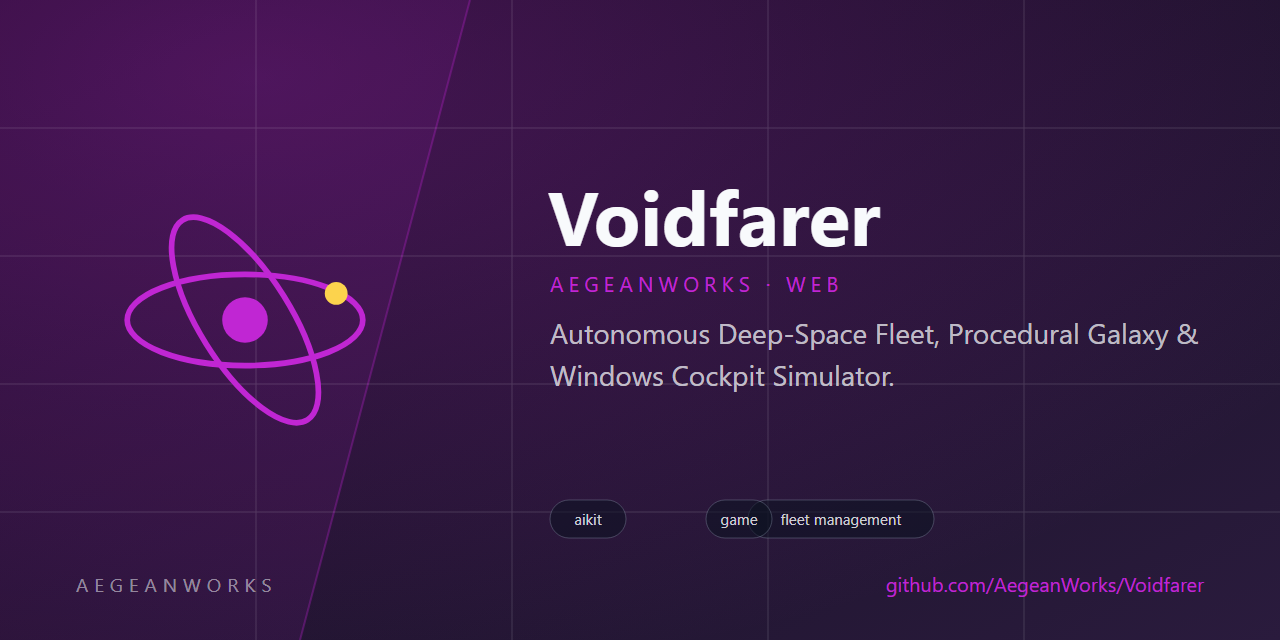
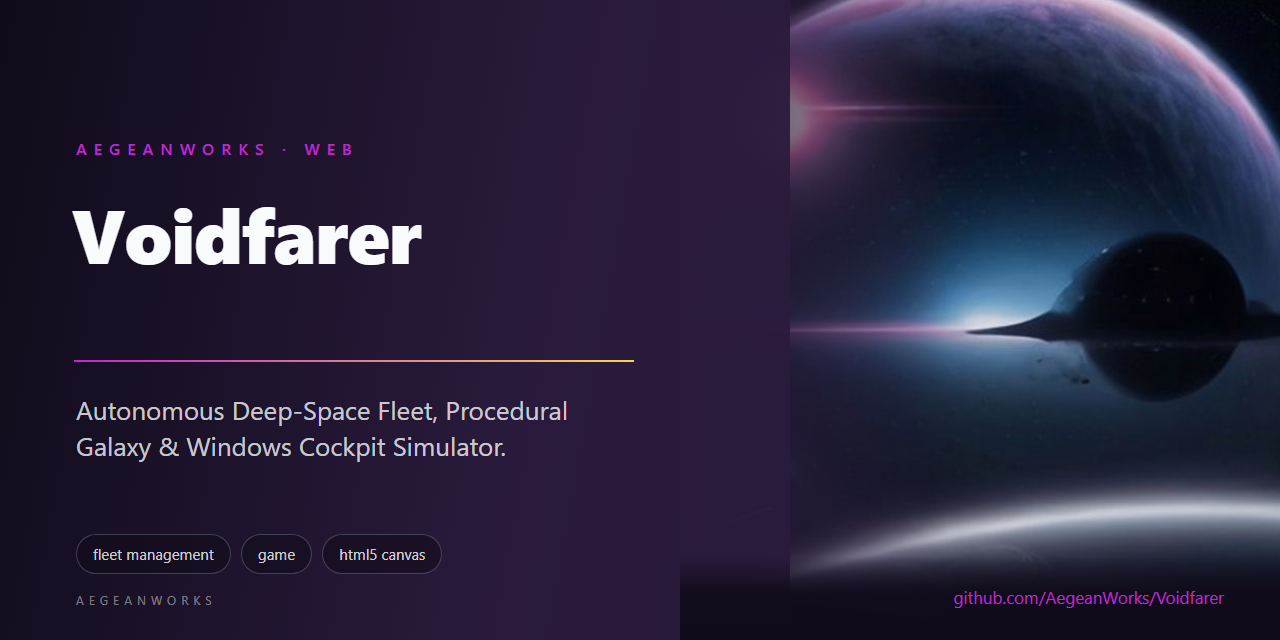
feat(brand): replace procedural marks with reviewed AI-art identities

diff --git a/README.md b/README.md
@@ -1,8 +1,8 @@
 # VoidFarer
 
 <!-- aegean:media:start -->
-<p align="center"><img src="assets/logo.svg" alt="Voidfarer logo" width="96" height="96"></p>
-<p align="center"><img src="assets/social-preview.svg" alt="Voidfarer social preview" width="100%"></p>
+<p align="center"><img src="assets/logo.png" alt="Voidfarer logo" width="96" height="96"></p>
+<p align="center"><img src="assets/social-preview.png" alt="Voidfarer social preview" width="100%"></p>
 <!-- aegean:media:end -->
 
 [![Built with AIKit](https://img.shields.io/badge/built%20with-AIKit-6f42c1)](https://github.com/AegeanWorks/AIKit)
